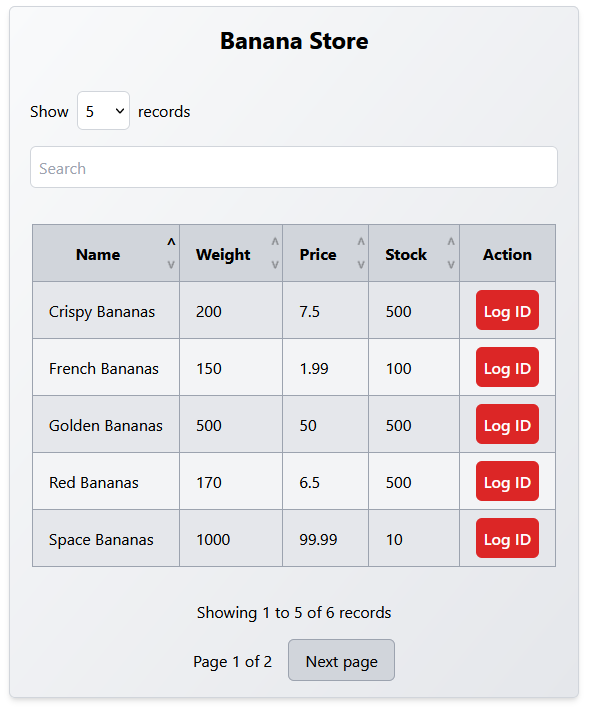
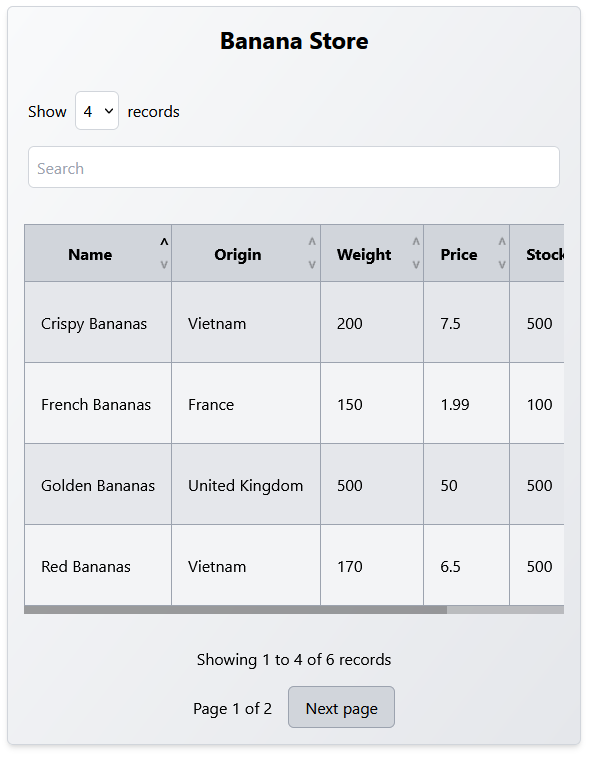
feat: add documentation

diff --git a/src/components/PaginatedTable.tsx b/src/components/PaginatedTable.tsx
@@ -25,7 +25,7 @@ export default function PaginatedTable({
 	items,
 	action = { title: undefined, function: undefined, label: undefined },
 	headers,
-	paginateOptions = [5, 10, 15, 20],
+	paginateOptions = [5, 10, 15],
 }: PaginatedTableProps) {
 	const [totalItems, setTotalItems] = useState(items); // All items
 	const [filteredItems, setFilteredItems] = useState(totalItems); // Items after filtering

diff --git a/readme.md b/readme.md
@@ -1,0 +1,179 @@
+# react-paginated-table
+
+react-paginated-Table is a npm package based on react made to integrate paginated, filtered, and sortable tables into your web applications. It is build using react, typescript and tailwindcss.
+
+## Installation
+
+Install the package using npm
+
+```bash
+  npm install react-paginated-table
+```
+
+Add the table component in your project
+
+```javascript
+import PaginatedTable from "react-paginated-table";
+```
+
+Use it like a standard react component
+
+```javascript
+<PaginatedTable
+	title="Banana Store"
+	items={items}
+	headers={headers}
+	action={action}
+	paginateOptions={[4, 6, 8]}
+/>
+```
+
+## Usage
+
+### Arguments
+
+The _PaginatedTable_ component can take up to 5 arguments :
+
+-   **title**: a string displayed on top of the table
+
+-   **items**: An array of object with the items to display. Each object must have at least an id property (string), the rest of the properties must be of type string or number.
+
+-   **headers**: An array of object defining the displayed column. Each object must be composed of two properties :
+
+    -   **title**: The title for the column header
+    -   **sortText**: The associated property name in the item object (used for sorting and filtering)
+
+-   **action** (Optional): An object defining the action column, can be omitted if no action column is wanted. Must contains the following properties :
+
+    -   **title**: The title for the action column header
+    -   **function**: The function to be executed when pressing the action button. The id of the corresponding item is given as parameter.
+    -   **label**: The label on the action buttons
+
+-   **paginateOptions** (Optional): an array of number defining the different options for the number of items to be displayed per page. If omitted, a default value of [5, 10, 15] is set (_Note: for more clarity, any value higher than the total amount of items will not be displayed. If no value remains, the corresponding input will not be displayed at all_)
+
+### Functionality
+
+-   Items can be sorted based on any of the provided header field, in a descending or ascending order. _By default, items are going to be ordered in ascending order for the first provided header field_
+
+-   Items can be filtered based on a text input. The search is performed on every field of the item.
+
+See more details below with the examples.
+
+## Example
+
+An example using the following parameters :
+
+1. **items**
+
+```javascript
+const items = [
+	{
+		id: "1",
+		name: "French Bananas",
+		origin: "France",
+		weight: 150,
+		price: 1.99,
+		quantity: 100,
+	},
+	{
+		id: "2",
+		name: "Space Bananas",
+		origin: "Unknown",
+		weight: 1000,
+		price: 99.99,
+		quantity: 10,
+	},
+	{
+		id: "3",
+		name: "Golden Bananas",
+		origin: "United Kingdom",
+		weight: 500,
+		price: 50.0,
+		quantity: 500,
+	},
+	{
+		id: "4",
+		name: "Red Bananas",
+		origin: "Vietnam",
+		weight: 170,
+		price: 6.5,
+		quantity: 500,
+	},
+	{
+		id: "5",
+		name: "Crispy Bananas",
+		origin: "Vietnam",
+		weight: 200,
+		price: 7.5,
+		quantity: 500,
+	},
+	{
+		id: "6",
+		name: "Spicy Bananas",
+		origin: "Mexico",
+		weight: 120,
+		price: 4.99,
+		quantity: 500,
+	},
+];
+```
+
+2. **headers**
+
+```javascript
+const headers = [
+	{
+		title: "Name",
+		sortText: "name",
+	},
+	{
+		title: "Origin",
+		sortText: "origin",
+	},
+	{
+		title: "Weight",
+		sortText: "weight",
+	},
+	{
+		title: "Price",
+		sortText: "price",
+	},
+	{
+		title: "Stock",
+		sortText: "quantity",
+	},
+];
+```
+
+3. **action**
+
+```javascript
+const action = {
+	title: "Action",
+	function: (id: string) => {
+		console.log("The id is : " + id);
+	},
+	label: "Log ID",
+}
+```
+
+4. **Component**
+
+```javascript
+<PaginatedTable
+	title="Banana Store"
+	items={items}
+	headers={headers}
+	action={action}
+	paginateOptions={[4, 6, 8]}
+/>
+```
+
+5. **Result**
+
+    Desktop
+
+    ![react-paginated-table](/docs/react-paginated-table.PNG?raw=true)
+
+Mobile (_table is scrollable if necessary_)
+![react-paginated-table mobile](/docs/react-paginated-table-mobile.PNG?raw=true)
